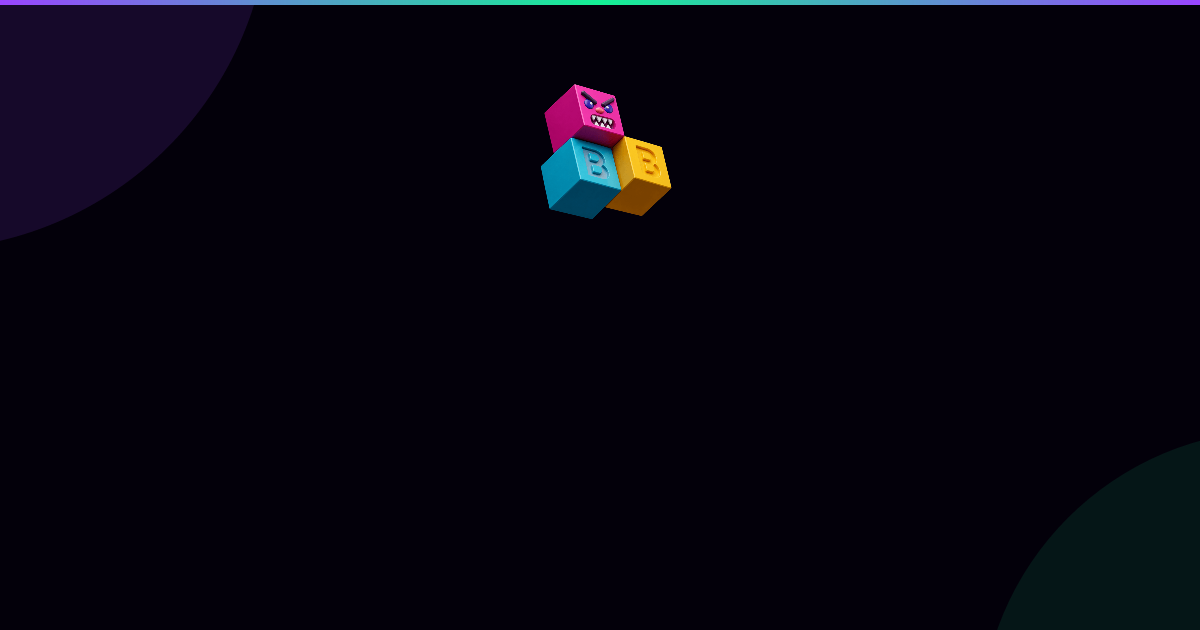
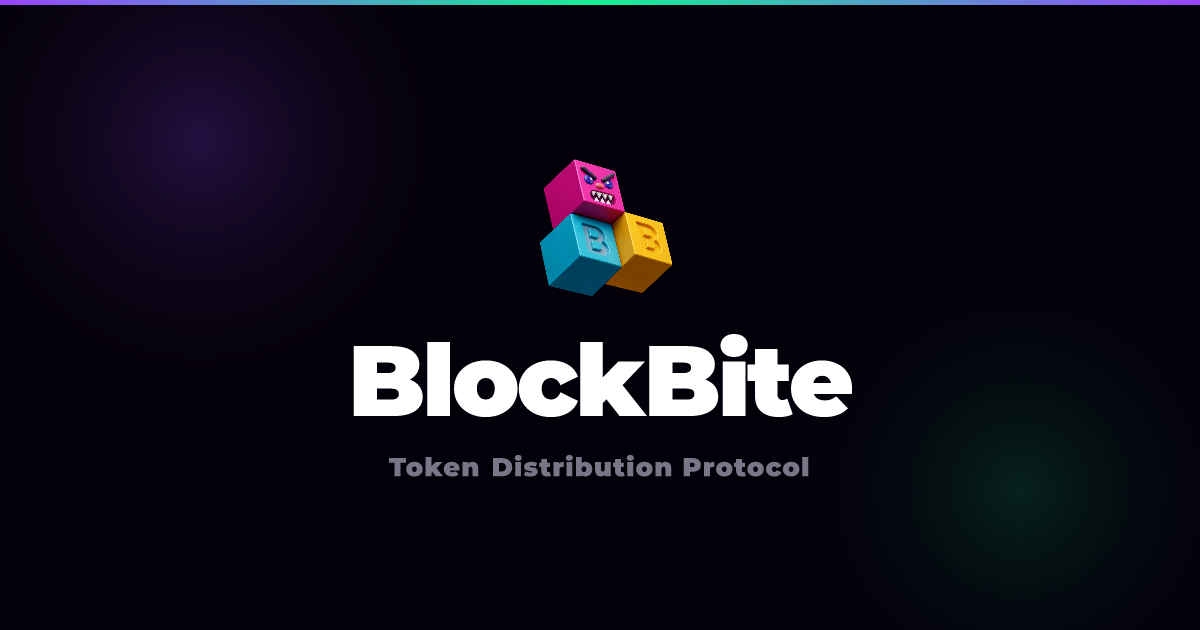
fix(og): serve static og.png (no edge cold-start, Twitter-reliable)

diff --git a/app/layout.tsx b/app/layout.tsx
@@ -41,12 +41,12 @@ export default function RootLayout({
       <head>
         <meta name="viewport" content="width=device-width, initial-scale=1" />
         {/* ── Hard-coded OG tags — Twitterbot reads these directly ── */}
-        <meta property="og:image" content="https://blockbite.vercel.app/api/og" />
+        <meta property="og:image" content="https://blockbite.vercel.app/og.png" />
         <meta property="og:image:width" content="1200" />
         <meta property="og:image:height" content="630" />
         <meta property="og:image:type" content="image/png" />
         <meta name="twitter:card" content="summary_large_image" />
-        <meta name="twitter:image" content="https://blockbite.vercel.app/api/og" />
+        <meta name="twitter:image" content="https://blockbite.vercel.app/og.png" />
         <meta name="twitter:site" content="@BlockBite_Sol" />
         {/* ────────────────────────────────────────────────────────── */}
         <link rel="preconnect" href="https://fonts.googleapis.com" />